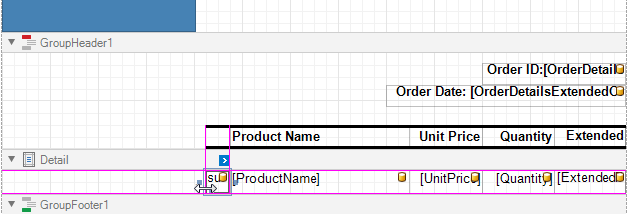
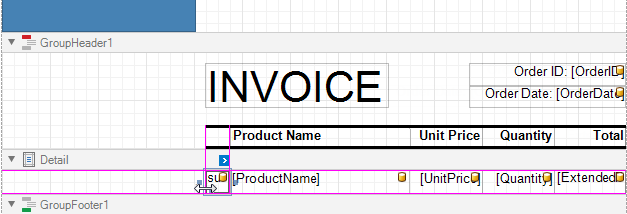
Update description

diff --git a/interface-elements-for-desktop/articles/report-designer/report-designer-for-winforms/create-popular-reports/create-a-report-with-cross-band-content-and-populated-empty-space.md b/interface-elements-for-desktop/articles/report-designer/report-designer-for-winforms/create-popular-reports/create-a-report-with-cross-band-content-and-populated-empty-space.md
@@ -11,17 +11,17 @@ This tutorial describes how to create an invoice report with the following layou
 
 ![](../../../../images/eurd-win-underlay-report-preview-6.png)
 
-1. [Add a new blank report](xref:14989) to your application.
-
-1. [Bind](xref:2554) the report to a data source.
-
 ## Add a Data Table
+
+1. [Add a new blank report](../add-new-reports.md) to your application.
+
+1. [Bind](../bind-to-data.md) the report to a data source.
 
 1. Switch to the [Field List](../report-designer-tools/ui-panels/field-list.md) and select data fields. Hold CTRL or SHIFT and click the fields to select multiple fields and drop them onto the Detail band.
 
     ![](../../../../images/eurd-win-underlay-report-drop-fields.png)
 
-    This creates a table with each cell bound to a data field.
+    This creates a [Table](../use-report-elements/use-tables.md) with each cell bound to a data field.
 
 1. Add line numbers. Right-click the first cell and select **Insert** / **Column to Left** from the context menu.
 
@@ -34,13 +34,13 @@ This tutorial describes how to create an invoice report with the following layou
 
     ![](../../../../images/eurd-win-underlay-report-add-line-numbers.png)
 
-The resulting report lists all data from the data source.
+The resulting report lists all items from all invoices.
 
 ![](../../../../images/eurd-win-underlay-report-preview-1.png)
 
 ## Group Data
 
-Group table data by units (for instance, group order data by orders).
+Group table data to produce invoices.
 
 1. Right-click the design surface. Select **Insert Band** / **GroupHeader** from the context menu.
 
@@ -64,7 +64,7 @@ The _GroupHeader_ band is printed for each group. Use it to add a heading that i
 
 	![](../../../../images/eurd-win-underlay-report-drop-titles.png)
 
-The records are now grouped by units.
+The records are now grouped by orders.
 
 ![](../../../../images/eurd-win-underlay-report-preview-2.png)
 
@@ -102,7 +102,7 @@ Each invoice now includes the numbered lines that continue until the totals.
 
 ## Add Cross-Band Data
 
-Add a panel with recipient details across the entire invoice. Place the panel on a separate _GroupHeader_ band that is printed on the background of other bands.
+Add a panel with recipient details across the entire group. Place the panel on a separate _GroupHeader_ band that is printed on the background of other bands.
 
 1. Add another _GroupHeader_ band to the top of the report. Click the added band's smart tag and set the **Print Across Bands** property. This makes the band content start at the top of the _GroupHeader1_ and end at the bottom of the _GroupFooter1_ band.
 
@@ -111,7 +111,7 @@ Add a panel with recipient details across the entire invoice. Place the panel on
 	> [!Tip]
 	> Choose a _PageHeader_ band instead of the _GroupHeader_ to limit the cross-band content to a page, even if the _GroupFooter_ is on the next page.
 
-2. As the new _GroupHeader_ band is above the invoice header, it is not grouped. To include it in the grouping, remove the group field from the _GroupHeader1_ band, and [add it to GroupHeader2](#group-data).
+2. As the new _GroupHeader_ band is above the header, it is not grouped. To include it in the grouping, remove the group field from the _GroupHeader1_ band, and [add it to GroupHeader2](#group-data).
 
 1. Add a [Panel](../use-report-elements/use-basic-report-controls/panel.md) control to the _GroupHeader_. Specify the panel's **Background Color** and drop fields onto the panel.
 
